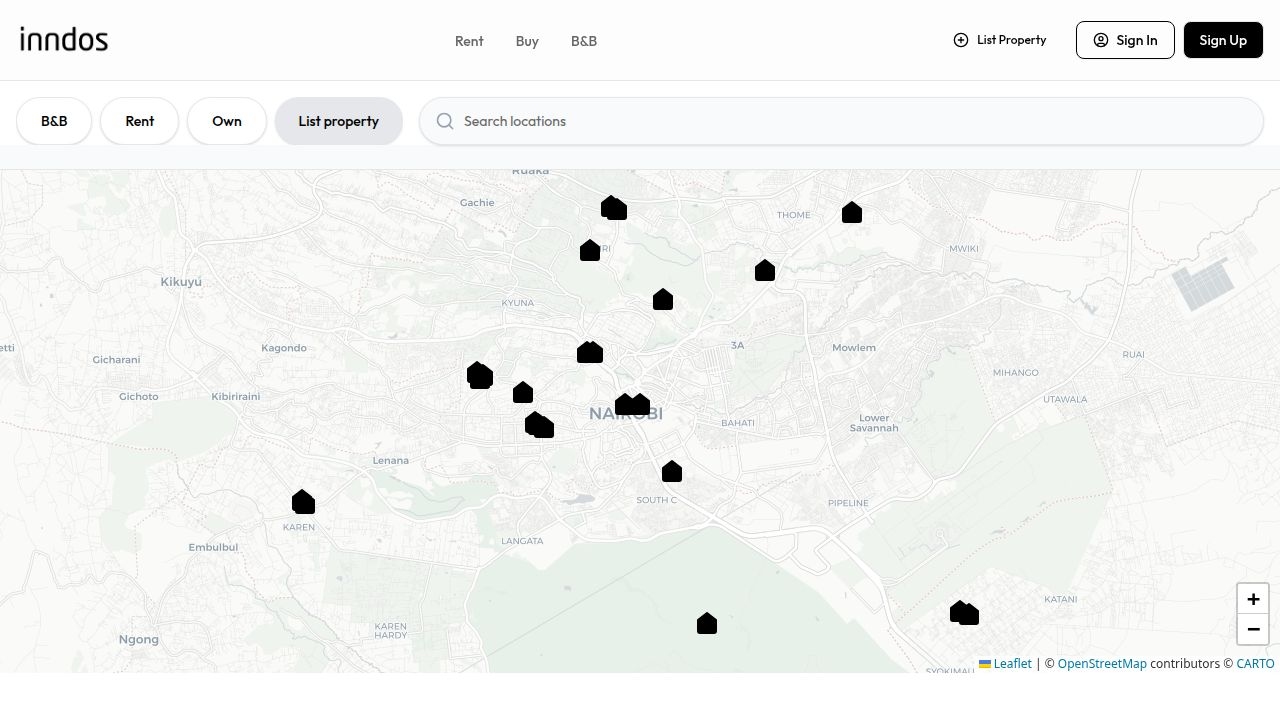
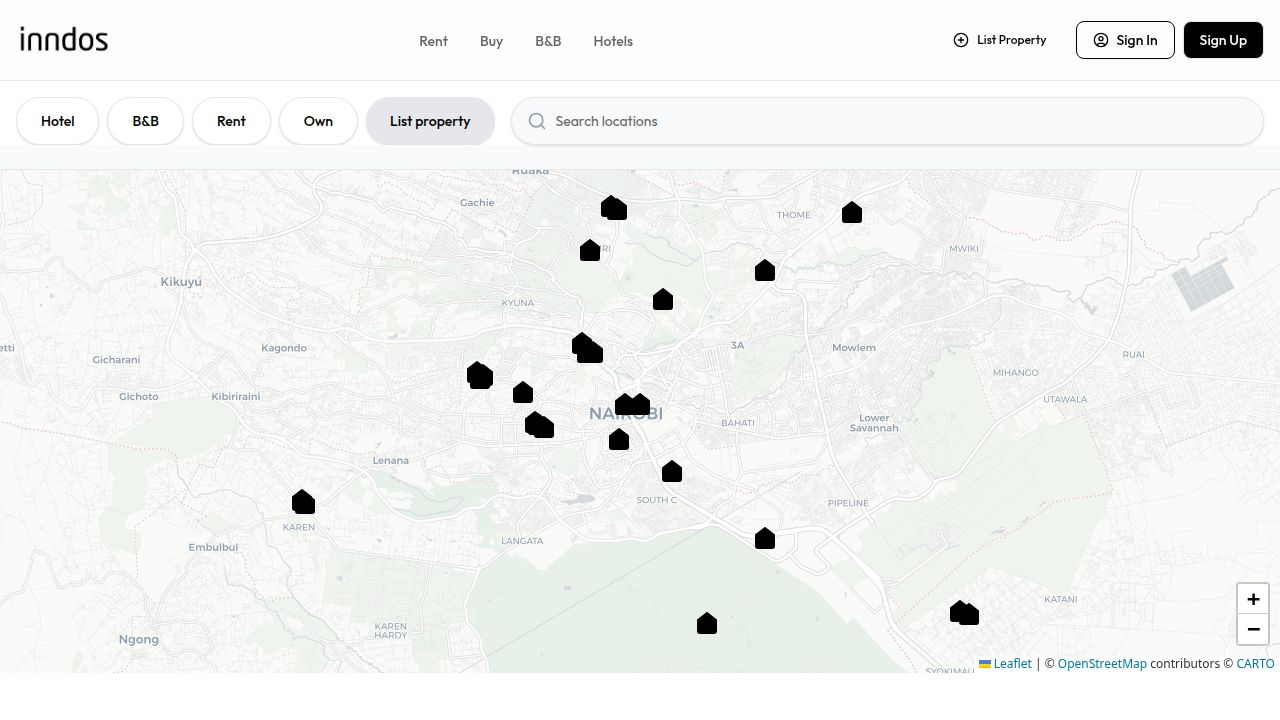
Add hotel listings and navigation to the property platform
Adds a new 'hotel' property type to mock data, integrates hotel listings into navigation and home page sections, and updates search functionality to include hotels.

Replit-Commit-Author: Agent
Replit-Commit-Session-Id: 46db9c7c-72d3-488c-bea2-f73e3d7ad21d
Replit-Commit-Checkpoint-Type: full_checkpoint
Replit-Commit-Event-Id: f266cb9c-420a-49d1-93cf-38fe6f9b89db
Replit-Commit-Screenshot-Url: https://storage.googleapis.com/screenshot-production-us-central1/14b22c6c-04e0-4206-89e6-db9a136f81d4/46db9c7c-72d3-488c-bea2-f73e3d7ad21d/nOo6IH9
Replit-Helium-Checkpoint-Created: true

diff --git a/client/src/pages/Home.tsx b/client/src/pages/Home.tsx
@@ -42,6 +42,9 @@ export default function Home() {
               <div className="flex flex-col md:flex-row items-center gap-4 mb-6">
                  {/* Filter Pills */}
                  <div className="flex gap-2 overflow-x-auto pb-0 scrollbar-hide justify-center md:justify-start flex-shrink-0">
+                    <Link href="/search?type=hotel">
+                      <Button variant="outline" className="rounded-full px-6 bg-white border-gray-200 hover:bg-gray-50 hover:text-black shadow-sm font-medium h-12">Hotel</Button>
+                    </Link>
                     <Link href="/search?type=bnb">
                       <Button variant="outline" className="rounded-full px-6 bg-white border-gray-200 hover:bg-gray-50 hover:text-black shadow-sm font-medium h-12">B&B</Button>
                     </Link>
@@ -111,29 +114,37 @@ export default function Home() {
         </div>
       </section>
 
-      {/* B&B Section */}
+      {/* B&B & Hotels Section */}
       <section className="py-16 bg-gray-50">
         <div className="container mx-auto px-4">
           <div className="flex justify-between items-end mb-8">
             <div>
               <div className="flex items-center gap-2 mb-2">
                  <Bed className="h-6 w-6 text-primary" />
-                 <h2 className="text-3xl font-bold text-gray-900">B&B & Short Stays</h2>
+                 <h2 className="text-3xl font-bold text-gray-900">B&B & Hotels</h2>
               </div>
               <p className="text-muted-foreground">Unique accommodations, offices, and meeting spaces.</p>
             </div>
-            <Link href="/search?type=bnb">
-              <Button variant="ghost" className="text-primary">View All <ArrowRight className="ml-2 h-4 w-4" /></Button>
-            </Link>
+            <div className="flex gap-4">
+              <Link href="/search?type=bnb">
+                <Button variant="ghost" className="text-primary">View B&Bs <ArrowRight className="ml-2 h-4 w-4" /></Button>
+              </Link>
+              <Link href="/search?type=hotel">
+                <Button variant="ghost" className="text-primary">View Hotels <ArrowRight className="ml-2 h-4 w-4" /></Button>
+              </Link>
+            </div>
           </div>
           <div className="grid grid-cols-1 sm:grid-cols-2 lg:grid-cols-4 gap-6">
-            {bnbProperties.slice(0, 12).map((property) => (
+            {[...bnbProperties, ...filteredProperties.filter(p => p.type === 'hotel')].slice(0, 12).map((property) => (
               <PropertyCard key={property.id} property={property} />
             ))}
           </div>
-          <div className="mt-8 text-center">
-             <Link href="/bnb">
-               <Button size="lg" className="font-semibold">Explore All B&B Stays</Button>
+          <div className="mt-8 text-center flex justify-center gap-4">
+             <Link href="/search?type=bnb">
+               <Button size="lg" className="font-semibold">Explore B&B Stays</Button>
+             </Link>
+             <Link href="/search?type=hotel">
+               <Button size="lg" variant="outline" className="font-semibold border-primary text-primary hover:bg-primary/5">Explore Hotels</Button>
              </Link>
           </div>
         </div>

diff --git a/client/src/lib/mockData.ts b/client/src/lib/mockData.ts
@@ -14,14 +14,14 @@ export interface Property {
   id: string;
   ownerId: string; // Link to owner/host
   title: string;
-  type: "rent" | "sale" | "bnb";
+  type: "rent" | "sale" | "bnb" | "hotel";
   price: number;
   address: string;
   specs: {
     beds: number;
     baths: number;
     sqft: number;
-    guests?: number; // specific for bnb
+    guests?: number; // specific for bnb/hotel
   };
   image: string;
   isVerified?: boolean;
@@ -216,4 +216,27 @@ const SALE_PROPERTIES: Property[] = [
   },
 ];
 
-export const PROPERTIES: Property[] = [...RENT_PROPERTIES, ...SALE_PROPERTIES, ...BNB_LISTINGS];
+const HOTEL_LISTINGS: Property[] = [
+  {
+    id: "h1", ownerId: "h1", title: "Luxury City Hotel", type: "hotel", price: 15000, address: "Westlands, Nairobi",
+    specs: { beds: 1, baths: 1, sqft: 350, guests: 2 }, image: "/images/modern_apartment_exterior.png", isVerified: true, tags: ["Room Service", "Pool", "Gym"],
+    location: { lat: -1.265, lng: 36.802 }
+  },
+  {
+    id: "h2", ownerId: "h2", title: "Boutique Business Hotel", type: "hotel", price: 12000, address: "Upper Hill, Nairobi",
+    specs: { beds: 1, baths: 1, sqft: 300, guests: 2 }, image: "/images/cozy_modern_bedroom_interior.png", isVerified: true, tags: ["Conference", "Restaurant", "WiFi"],
+    location: { lat: -1.298, lng: 36.815 }
+  },
+  {
+    id: "h3", ownerId: "h1", title: "Airport Transit Hotel", type: "hotel", price: 8000, address: "Mombasa Road, Nairobi",
+    specs: { beds: 1, baths: 1, sqft: 250, guests: 2 }, image: "/images/modern_happy_family_moving_into_new_home.png", isVerified: true, tags: ["Shuttle", "24/7 Dining", "Express Check-in"],
+    location: { lat: -1.332, lng: 36.865 }
+  },
+  {
+    id: "h4", ownerId: "h2", title: "Resort & Spa", type: "hotel", price: 25000, address: "Diani, Mombasa",
+    specs: { beds: 2, baths: 1, sqft: 450, guests: 3 }, image: "/images/modern_apartment_exterior.png", isVerified: true, tags: ["Beachfront", "Spa", "All-Inclusive"],
+    location: { lat: -4.279, lng: 39.593 }
+  }
+];
+
+export const PROPERTIES: Property[] = [...RENT_PROPERTIES, ...SALE_PROPERTIES, ...BNB_LISTINGS, ...HOTEL_LISTINGS];

diff --git a/client/src/components/layout/Navbar.tsx b/client/src/components/layout/Navbar.tsx
@@ -36,6 +36,11 @@ export function Navbar() {
               B&B
             </span>
           </Link>
+          <Link href="/search?type=hotel">
+            <span className={`text-sm font-medium transition-colors hover:text-primary cursor-pointer ${location.includes('hotel') ? 'text-primary' : 'text-muted-foreground'}`}>
+              Hotels
+            </span>
+          </Link>
           {user && (
             <Link href="/dashboard">
               <span className={`text-sm font-medium transition-colors hover:text-primary cursor-pointer ${location === '/dashboard' ? 'text-primary' : 'text-muted-foreground'}`}>

diff --git a/client/src/pages/Search.tsx b/client/src/pages/Search.tsx
@@ -210,7 +210,7 @@ export default function Search() {
                  {filteredProperties.length} Properties found
                </h1>
                <p className="text-sm text-muted-foreground">
-                 Showing properties for <strong>{queryType === 'rent' ? 'Rent' : 'Sale'}</strong>
+                 Showing properties for <strong>{queryType === 'rent' ? 'Rent' : queryType === 'sale' ? 'Sale' : queryType === 'hotel' ? 'Hotels' : 'B&B'}</strong>
                  {searchQuery && <span> matching "<strong>{searchQuery}</strong>"</span>}
                </p>
              </div>
